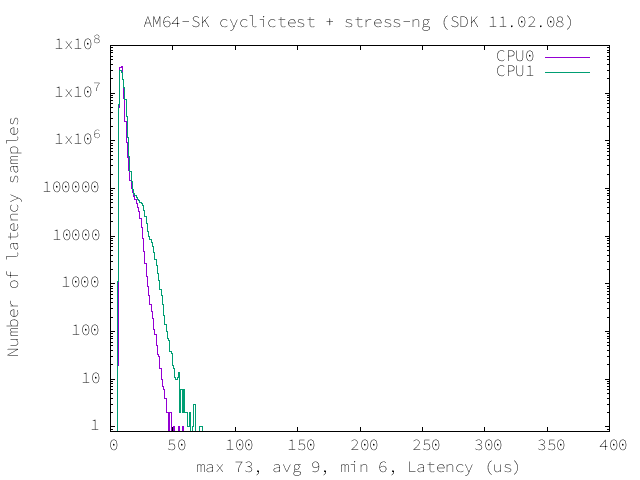
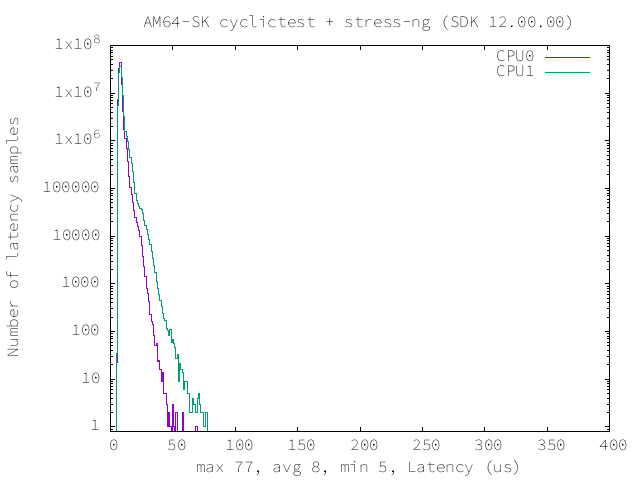
feat(AM64X): Add PREEMPT_RT perf numbers
Add the AM64x latency numbers for the SDK 12.0 release

diff --git a/source/devices/AM64X/linux/RT_Linux_Performance_Guide.rst b/source/devices/AM64X/linux/RT_Linux_Performance_Guide.rst
@@ -36,7 +36,52 @@ https://e2e.ti.com/ or https://support.ti.com/
 System Benchmarks
 *****************
 
-|
+Stress-ng and Cyclic Test
+=========================
+
+.. _RT-linux-performance:
+
+stress-ng (next-generation) will stress test a embedded platform in
+various selectable ways. It was designed to exercise various physical
+subsystems as well as the various operating system kernel interfaces.
+stress-ng can also measure test throughput rates; this can be useful to
+observe performance changes across different operating system or types
+of hardware.
+
+Cyclictest is most commonly used for benchmarking RT systems. It is one
+of the most frequently used tools for evaluating the relative
+performance of real-time systems. Some performance tests which use
+Cyclictest are System benchmarking, Latency debugging with tracing and
+-approximating application performance.
+
+Test commands used for running stress-ng and cyclictest together
+
+.. code:: console
+
+   stress-ng --cpu-method=all -c 4 &
+   cyclictest -m -Sp80 -D6h -h400 -i200 -M -q
+
+The following summarizes the latencies observed using the yocto based
+default SDK image:
+
+.. note::
+
+   A known issue in this SDK release is affecting this benchmark.
+   Using OP-TEE's PRNG drivers rather than the hardware accelerated TRNG
+   drivers restores the context switch latencies to the values you see
+   here.
+
+   More information on switching to the PRNG drivers can be found in the
+   Foundational Components section, here :ref:`building-optee-with-prng`
+
+.. csv-table::
+   :header: "Latencies","CPU 0","CPU 1"
+
+   "Minimum (usec)","5","5"
+   "Average (usec)","7","8"
+   "Maximum (usec)","69","77"
+
+.. image:: img/rt-cpu-method-all-latency-histogram.png
 
 LMBench
 =======
